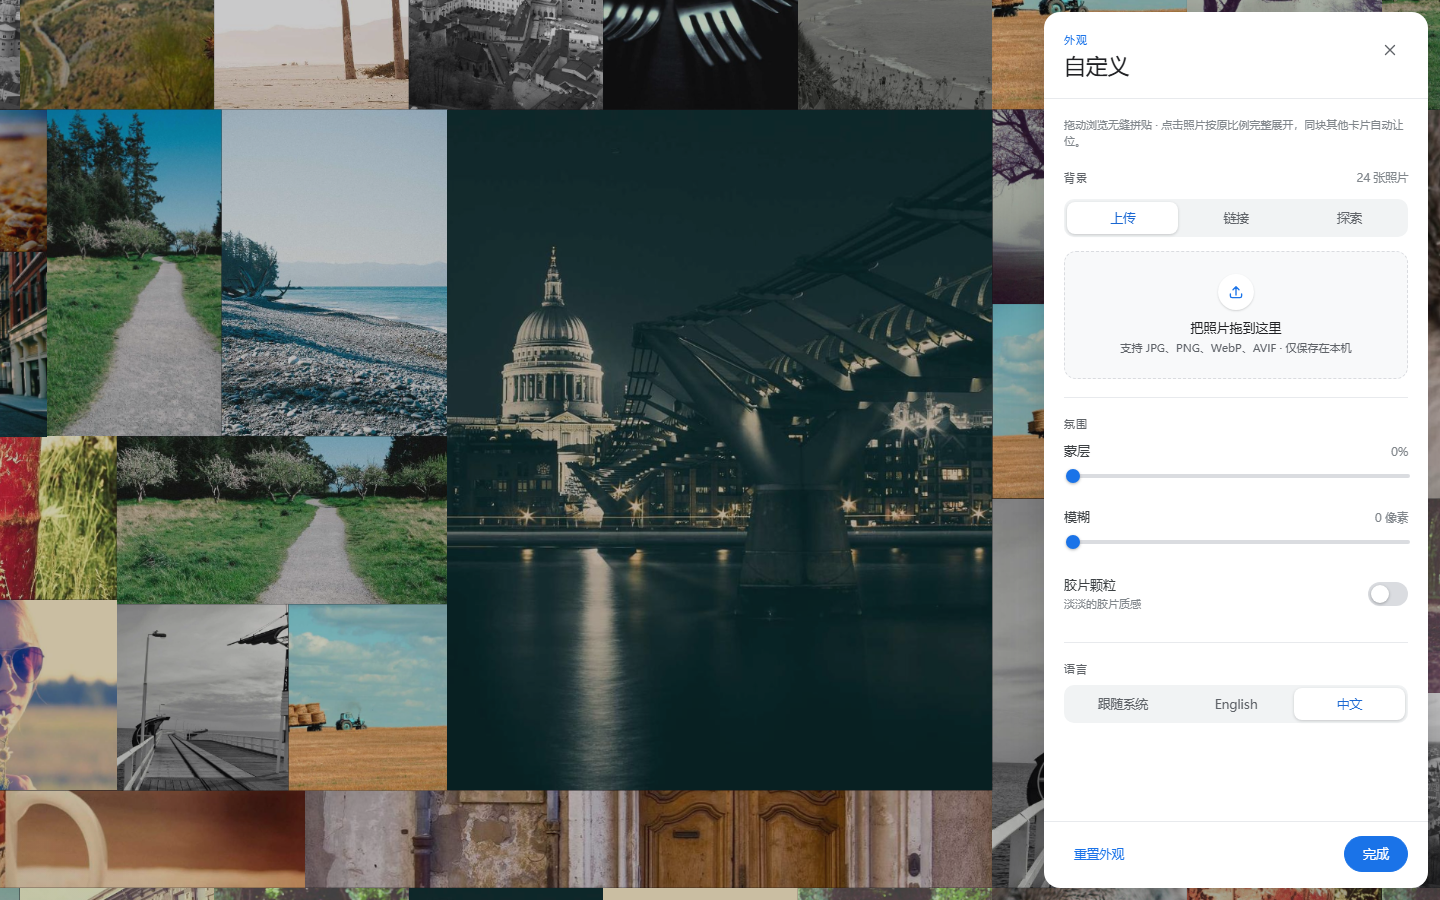
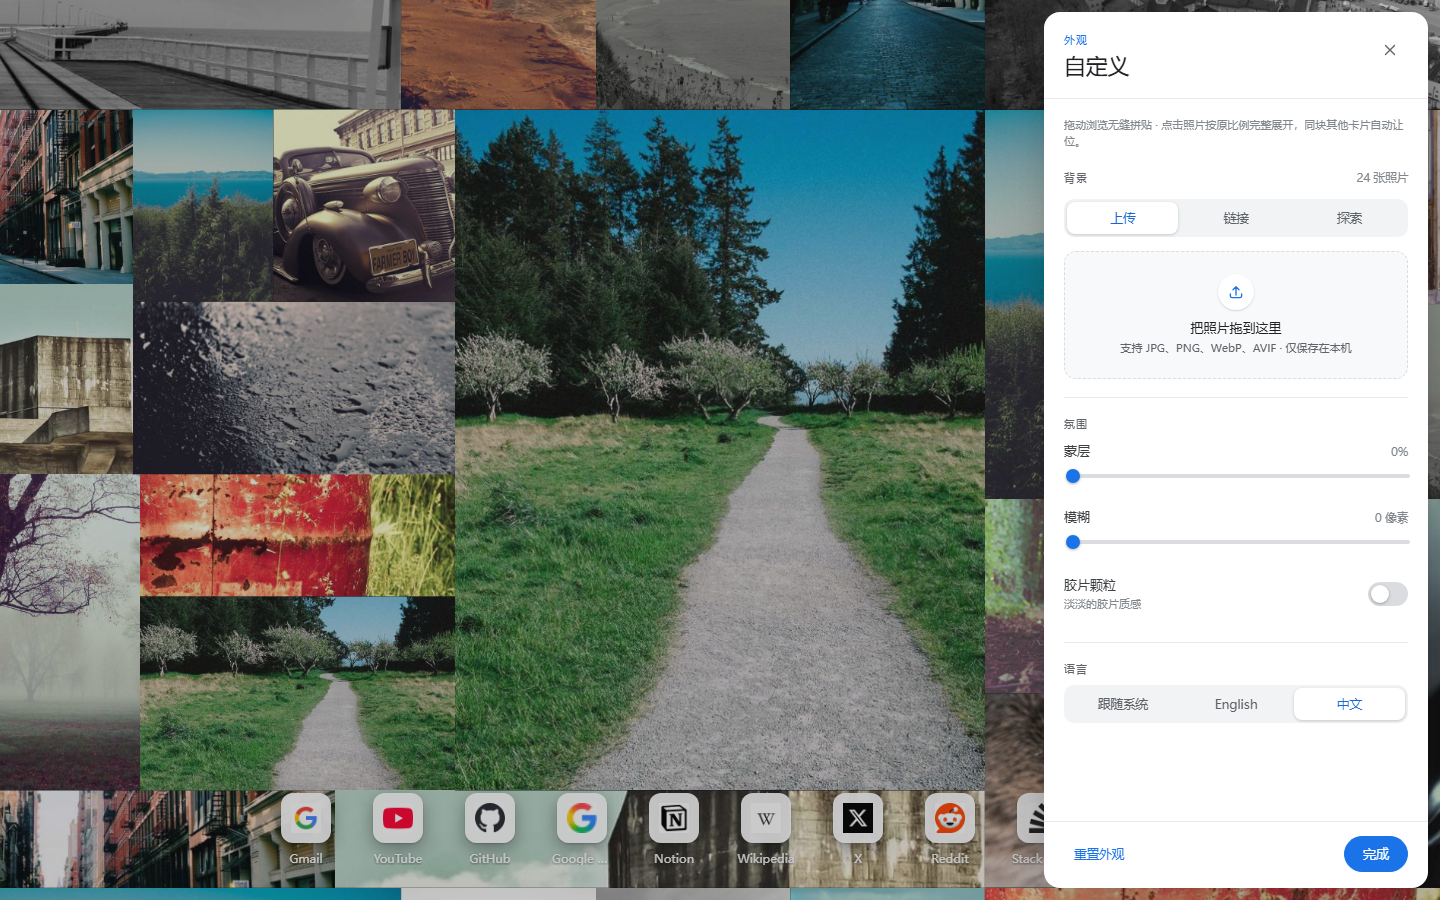
feat(shortcuts): show most-visited sites in a standard shortcut row
Revert the shortcut cards that were mixed into the photo wall and put
the shortcuts in the usual new-tab place instead: a centered row at the
bottom of the page with a white favicon tile and the site name below,
like Chrome's own shortcuts.

Entries come from chrome.topSites (permission topSites), deduped by
host, padded to ten with a built-in list. Favicons use the local
/_favicon endpoint (permission favicon), fall back to Google's favicon
service in preview, and to a letter badge if the image fails. Clicking
opens the site in the current tab.

Manifest 0.13.0; README and screenshots updated.

diff --git a/app.js b/app.js
@@ -34,6 +34,7 @@
 
   let settings = { ...DEFAULTS };
   let wallSeed = Math.floor(Math.random() * 1e6);
+  let shortcutsList = [];
   let toastTimer = 0;
   let appliedLanguage = null;
 
@@ -239,6 +240,71 @@
 
   collageEl?.addEventListener('pointerup', endPan);
   collageEl?.addEventListener('pointercancel', endPan);
+
+  /* ----------------------------- shortcuts -------------------------------- */
+
+  const shortcutsEl = $('shortcuts');
+
+  const faviconFor = (url) => {
+    try {
+      if (typeof chrome !== 'undefined' && chrome.runtime && chrome.runtime.id) {
+        return chrome.runtime.getURL(`/_favicon/?pageUrl=${encodeURIComponent(url)}&size=64`);
+      }
+    } catch (err) {
+      /* fall through */
+    }
+    try {
+      const host = new URL(url).hostname;
+      return `https://www.google.com/s2/favicons?domain=${host}&sz=64`;
+    } catch (err) {
+      return '';
+    }
+  };
+
+  const openShortcut = (url) => {
+    if (!url || !/^https?:\/\//i.test(url)) return;
+    window.location.href = url;
+  };
+
+  const renderShortcuts = () => {
+    if (!shortcutsEl) return;
+    shortcutsEl.replaceChildren(
+      ...shortcutsList.map((site) => {
+        const button = document.createElement('button');
+        button.type = 'button';
+        button.className = 'shortcut';
+        button.title = site.title;
+        button.setAttribute('aria-label', site.title);
+
+        const tile = document.createElement('span');
+        tile.className = 'shortcut__tile';
+
+        const letter = document.createElement('span');
+        letter.className = 'shortcut__letter';
+        letter.textContent = (site.title || '?').trim().charAt(0).toUpperCase() || '?';
+
+        const icon = document.createElement('img');
+        icon.className = 'shortcut__icon';
+        icon.alt = '';
+        icon.decoding = 'async';
+        icon.src = faviconFor(site.url);
+        icon.addEventListener('error', () => icon.remove(), { once: true });
+
+        tile.appendChild(letter);
+        tile.appendChild(icon);
+
+        const label = document.createElement('span');
+        label.className = 'shortcut__label';
+        label.textContent = site.title;
+
+        button.appendChild(tile);
+        button.appendChild(label);
+        button.addEventListener('click', () => openShortcut(site.url));
+        return button;
+      })
+    );
+    shortcutsEl.hidden = shortcutsList.length === 0;
+  };
 
   /* ------------------------------- wall ---------------------------------- */
 
@@ -737,7 +803,12 @@
 
   const boot = async () => {
     try {
-      const [saved] = await Promise.all([store.get(SETTINGS_KEY), library.load()]);
+      const [saved, , shortcuts] = await Promise.all([
+        store.get(SETTINGS_KEY),
+        library.load(),
+        window.LatticeShortcuts ? window.LatticeShortcuts.load() : Promise.resolve([]),
+      ]);
+      shortcutsList = shortcuts || [];
       settings = sanitize(saved);
       if (settings.source === 'library' && library.counts().total === 0) {
         settings.source = 'curated';
@@ -746,6 +817,7 @@
       buildChips();
       syncControls();
       refreshLibraryUI();
+      renderShortcuts();
       applyCamera();
         renderWall();
     } catch (err) {

diff --git a/style.css b/style.css
@@ -240,6 +240,125 @@ body.is-panning .tile {
   background: radial-gradient(130% 110% at 50% 45%, transparent 55%, rgba(24, 26, 33, 0.18) 100%);
 }
 
+/* ── Shortcuts row ─────────────────────────────────────────────────────── */
+
+.shortcuts {
+  position: fixed;
+  left: 50%;
+  bottom: clamp(16px, 4vh, 34px);
+  z-index: 15;
+  display: flex;
+  flex-wrap: wrap;
+  align-items: flex-start;
+  justify-content: center;
+  gap: clamp(10px, 1.5vw, 20px);
+  width: min(960px, calc(100vw - 36px));
+  transform: translateX(-50%);
+  pointer-events: auto;
+}
+
+.shortcuts[hidden] {
+  display: none;
+}
+
+.shortcut {
+  display: flex;
+  flex-direction: column;
+  align-items: center;
+  gap: 8px;
+  width: 72px;
+  color: #fff;
+}
+
+.shortcut__tile {
+  position: relative;
+  display: grid;
+  place-items: center;
+  width: 50px;
+  height: 50px;
+  border-radius: 12px;
+  overflow: hidden;
+  background: rgba(255, 255, 255, 0.95);
+  box-shadow:
+    0 6px 18px rgba(0, 0, 0, 0.35),
+    0 1px 2px rgba(0, 0, 0, 0.2);
+  transition:
+    transform 0.2s var(--ease-standard),
+    box-shadow 0.2s var(--ease-standard);
+}
+
+.shortcut__icon {
+  position: relative;
+  width: 60%;
+  height: 60%;
+  object-fit: contain;
+  background: #fff;
+}
+
+.shortcut__letter {
+  position: absolute;
+  inset: 0;
+  display: grid;
+  place-items: center;
+  color: #202124;
+  font-size: 21px;
+  font-weight: 600;
+}
+
+.shortcut__label {
+  max-width: 100%;
+  overflow: hidden;
+  text-overflow: ellipsis;
+  white-space: nowrap;
+  font-size: 12px;
+  line-height: 1.2;
+  color: #fff;
+  opacity: 0.95;
+  text-shadow: 0 1px 3px rgba(0, 0, 0, 0.65);
+}
+
+.shortcut:hover .shortcut__tile {
+  transform: translateY(-2px);
+  box-shadow: 0 10px 24px rgba(0, 0, 0, 0.45);
+}
+
+.shortcut:active .shortcut__tile {
+  transform: scale(0.96);
+}
+
+.shortcut:focus-visible {
+  outline: none;
+}
+
+.shortcut:focus-visible .shortcut__tile {
+  box-shadow:
+    0 0 0 2px #fff,
+    0 0 0 5px var(--blue);
+}
+
+@media (max-width: 640px) {
+  .shortcuts {
+    gap: 10px;
+    bottom: 14px;
+    width: calc(100vw - 24px);
+  }
+
+  .shortcut {
+    width: 62px;
+    gap: 6px;
+  }
+
+  .shortcut__tile {
+    width: 44px;
+    height: 44px;
+    border-radius: 11px;
+  }
+
+  .shortcut__label {
+    font-size: 11px;
+  }
+}
+
 /* ── 5. Settings button, scrim & drawer ────────────────────────────────── */
 
 .settings-btn {

diff --git a/shortcuts.js b/shortcuts.js
@@ -1,0 +1,73 @@
+/**
+ * shortcuts.js — new-tab shortcuts.
+ *
+ * Uses Chrome's most-visited sites (chrome.topSites) when available and fills
+ * the rest with a small built-in list, so a fresh profile still shows useful
+ * shortcuts. Each entry is a plain { title, url }.
+ */
+(() => {
+  'use strict';
+
+  const FALLBACK = [
+    { title: 'Gmail', url: 'https://mail.google.com/' },
+    { title: 'YouTube', url: 'https://www.youtube.com/' },
+    { title: 'GitHub', url: 'https://github.com/' },
+    { title: 'Google Drive', url: 'https://drive.google.com/' },
+    { title: 'Notion', url: 'https://www.notion.so/' },
+    { title: 'Wikipedia', url: 'https://www.wikipedia.org/' },
+    { title: 'X', url: 'https://x.com/' },
+    { title: 'Reddit', url: 'https://www.reddit.com/' },
+    { title: 'Stack Overflow', url: 'https://stackoverflow.com/' },
+    { title: 'Bilibili', url: 'https://www.bilibili.com/' },
+  ];
+
+  const hostOf = (value) => {
+    try {
+      return new URL(value).hostname.replace(/^www\./, '');
+    } catch {
+      return '';
+    }
+  };
+
+  const usable = (value) => {
+    try {
+      const parsed = new URL(value);
+      return parsed.protocol === 'http:' || parsed.protocol === 'https:';
+    } catch {
+      return false;
+    }
+  };
+
+  const load = async () => {
+    let visited = [];
+    try {
+      if (typeof chrome !== 'undefined' && chrome.topSites && chrome.topSites.get) {
+        visited = await chrome.topSites.get();
+      }
+    } catch (err) {
+      console.warn('[lattice] topSites unavailable', err);
+    }
+
+    const seen = new Set();
+    const list = [];
+
+    const push = (item) => {
+      if (!item || !item.url || !usable(item.url)) return;
+      const host = hostOf(item.url);
+      if (!host || seen.has(host)) return;
+      seen.add(host);
+      const title = (item.title || '').trim() || host;
+      list.push({ title: title.slice(0, 60), url: item.url });
+    };
+
+    for (const site of visited) push(site);
+    for (const item of FALLBACK) {
+      if (list.length >= 10) break;
+      push(item);
+    }
+
+    return list.slice(0, 10);
+  };
+
+  window.LatticeShortcuts = { load };
+})();

diff --git a/newtab.html b/newtab.html
@@ -32,6 +32,11 @@
     </button>
 
     <!-- ══════════════════════════════════════════════════════════════════
+         SHORTCUTS — most-visited sites, in the usual new-tab row
+         ══════════════════════════════════════════════════════════════════ -->
+    <nav class="shortcuts" id="shortcuts" data-i18n-aria="shortcuts.label" hidden></nav>
+
+    <!-- ══════════════════════════════════════════════════════════════════
          CUSTOMIZE DRAWER
          ══════════════════════════════════════════════════════════════════ -->
     <div class="scrim" id="scrim"></div>
@@ -152,6 +157,7 @@
     <script src="i18n.js" defer></script>
     <script src="store.js" defer></script>
     <script src="library.js" defer></script>
+    <script src="shortcuts.js" defer></script>
     <script src="collage.js" defer></script>
     <script src="app.js" defer></script>
   </body>

diff --git a/i18n.js b/i18n.js
@@ -21,6 +21,7 @@
       'action.clearLibrary': 'Remove all photos',
       'action.shuffle': 'Shuffle',
       'action.removePhoto': 'Remove {name}',
+      'shortcuts.label': 'Shortcuts',
 
       'shortcut.upload': 'Upload',
       'shortcut.url': 'Add URL',
@@ -146,6 +147,7 @@
       'action.clearLibrary': '移除全部照片',
       'action.shuffle': '换一批',
       'action.removePhoto': '移除 {name}',
+      'shortcuts.label': '快捷方式',
 
       'shortcut.upload': '上传',
       'shortcut.url': '加链接',

diff --git a/README.md b/README.md
@@ -24,6 +24,7 @@ expansion that re-gears only the block you clicked. English / 中文.
 | 7 | Block templates, reflections, viewport culling | ✅ |
 | 8 | 6×6 expansion with local block reflow | ✅ |
 | 9 | Glow / inner stroke, smart framing | ✅ |
+| 10 | Shortcut row from most-visited sites | ✅ |
 
 ## Features
 
@@ -47,6 +48,10 @@ expansion that re-gears only the block you clicked. English / 中文.
   and a focus point (`object-position`). The focus point comes from the
   browser's `FaceDetector` when available and falls back to centre; the
   mechanism mirrors folia's `cardArtwork` / avatar-focus idea.
+- **Shortcut row** — a familiar row of shortcuts sits at the bottom of the
+  page: the favicon on a white tile with the site name underneath. Entries come
+  from Chrome's most-visited sites (`topSites`) and fall back to a built-in list
+  (Gmail, YouTube, GitHub, Notion, Wikipedia, …). Clicking one opens the site.
 - **Three sources**
   - **Upload** — drop or pick images; downscaled to 1800 px, re-encoded to WebP
     and stored in IndexedDB. Nothing leaves the device.
@@ -79,6 +84,10 @@ Clicking any card expands it at the photo's own aspect ratio; the rest of the
 block re-tiles around it and the camera centres it. The cards touch, so the
 wall reads as one seamless mosaic.
 
+Permissions: `storage`, `unlimitedStorage`, `topSites` (most-visited
+shortcuts) and `favicon` (local favicon lookups via `/_favicon/`). Photo
+uploads never leave the device.
+
 ## Install (unpacked)
 
 1. Open `chrome://extensions` and enable **Developer mode**.
@@ -98,6 +107,7 @@ style.css                Material tokens, wall, cards, atmosphere, drawer
 i18n.js                  English/中文 dictionary + DOM applier
 store.js                 chrome.storage.local ⇄ localStorage adapter
 library.js               IndexedDB library, upload pipeline, curated sets
+shortcuts.js             most-visited sites + built-in shortcut fallbacks
 collage.js               block templates, culling, block reflow, camera
 app.js                   camera input, expansion, drawer, sources, persistence
 assets/defaults/         24 bundled photos (instant, offline)
@@ -110,6 +120,7 @@ tools/fetch-defaults.mjs refreshes assets/defaults from Lorem Picsum
 
 | Data | Where | Notes |
 | ---- | ----- | ----- |
+| Shortcuts | `chrome.topSites` (permission `topSites`) | built-in fallback list |
 | Settings | `chrome.storage.local` → `lattice:settings` | clamped + validated on load |
 | Library metadata | `chrome.storage.local` → `lattice:library` | id, kind, dimensions, name |
 | Local photo blobs | IndexedDB `lattice-photos/photos` | WebP, max 1800 px, quality 0.82 |
